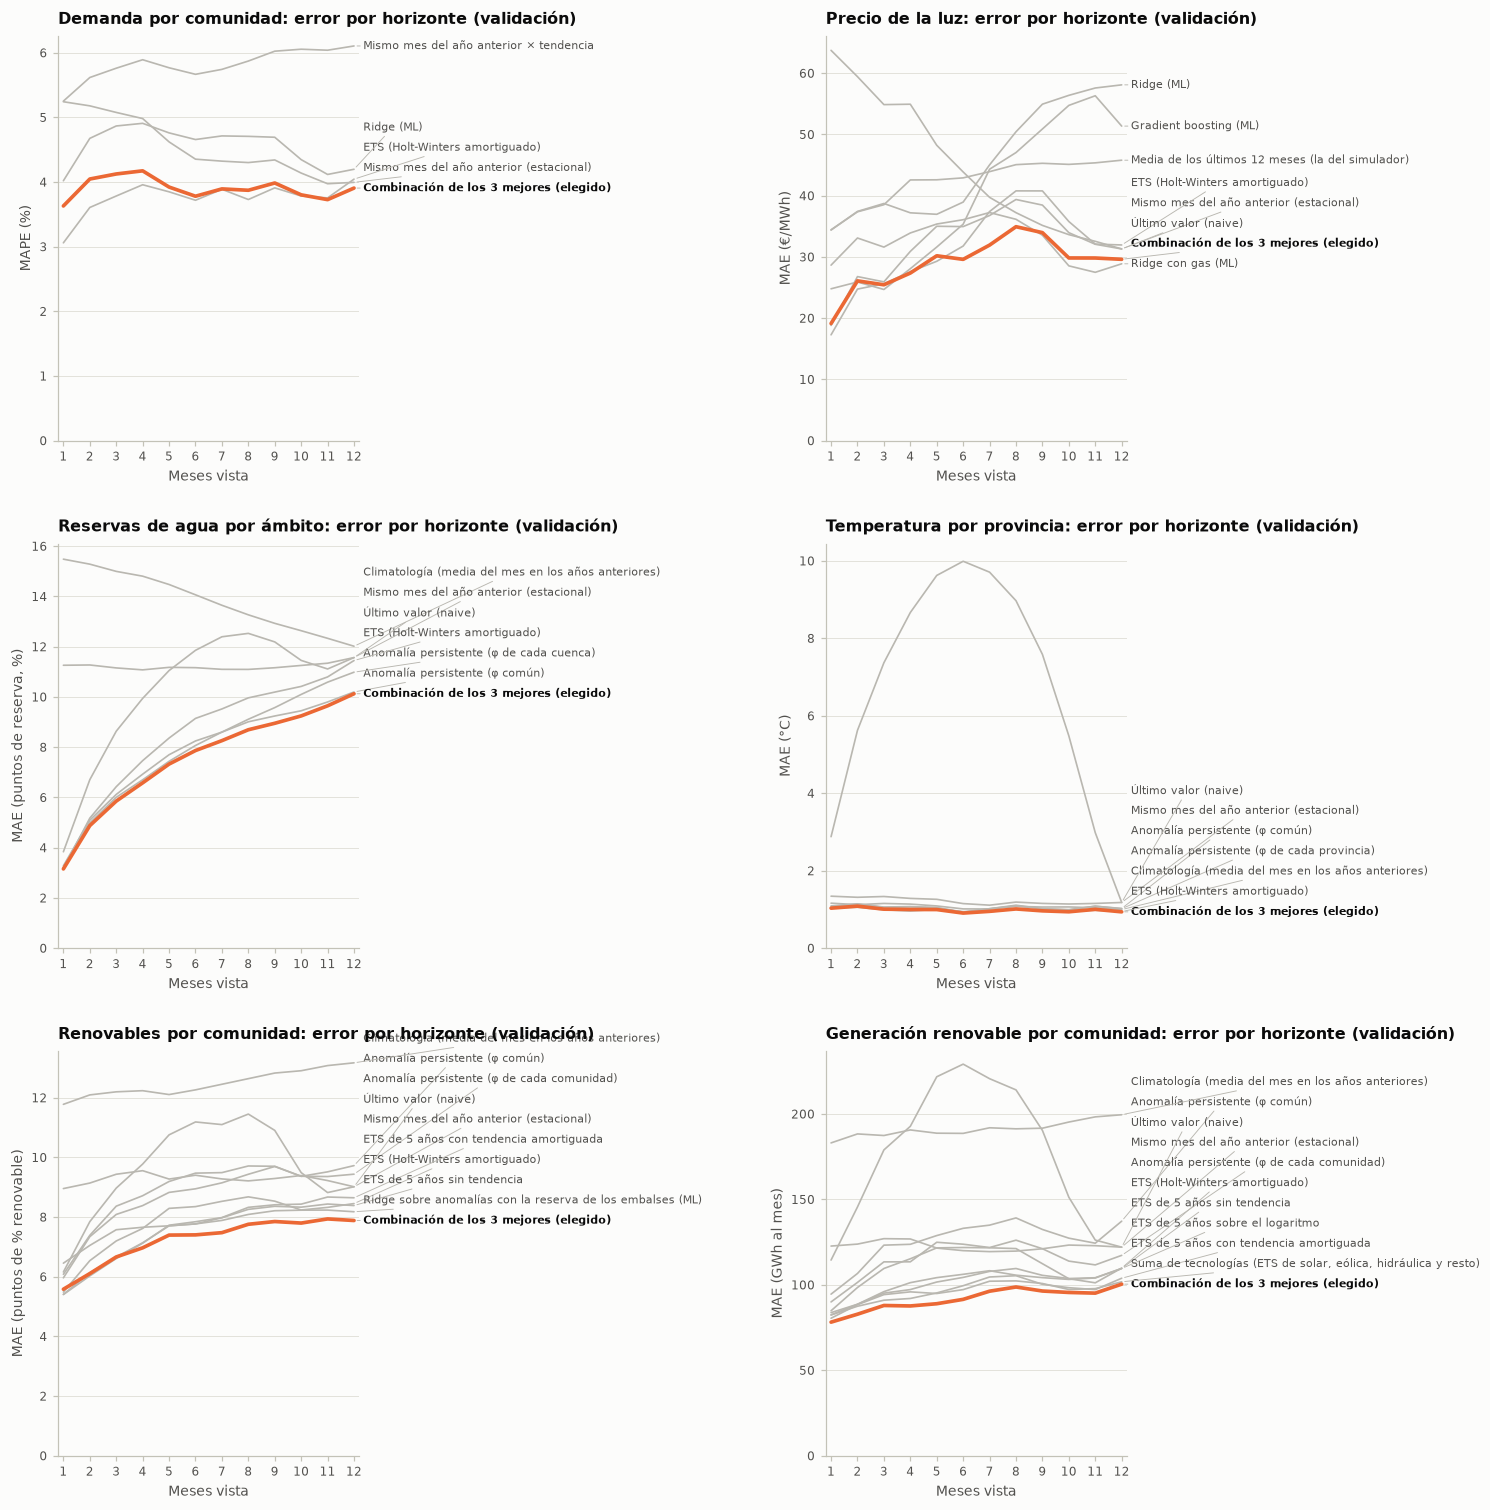
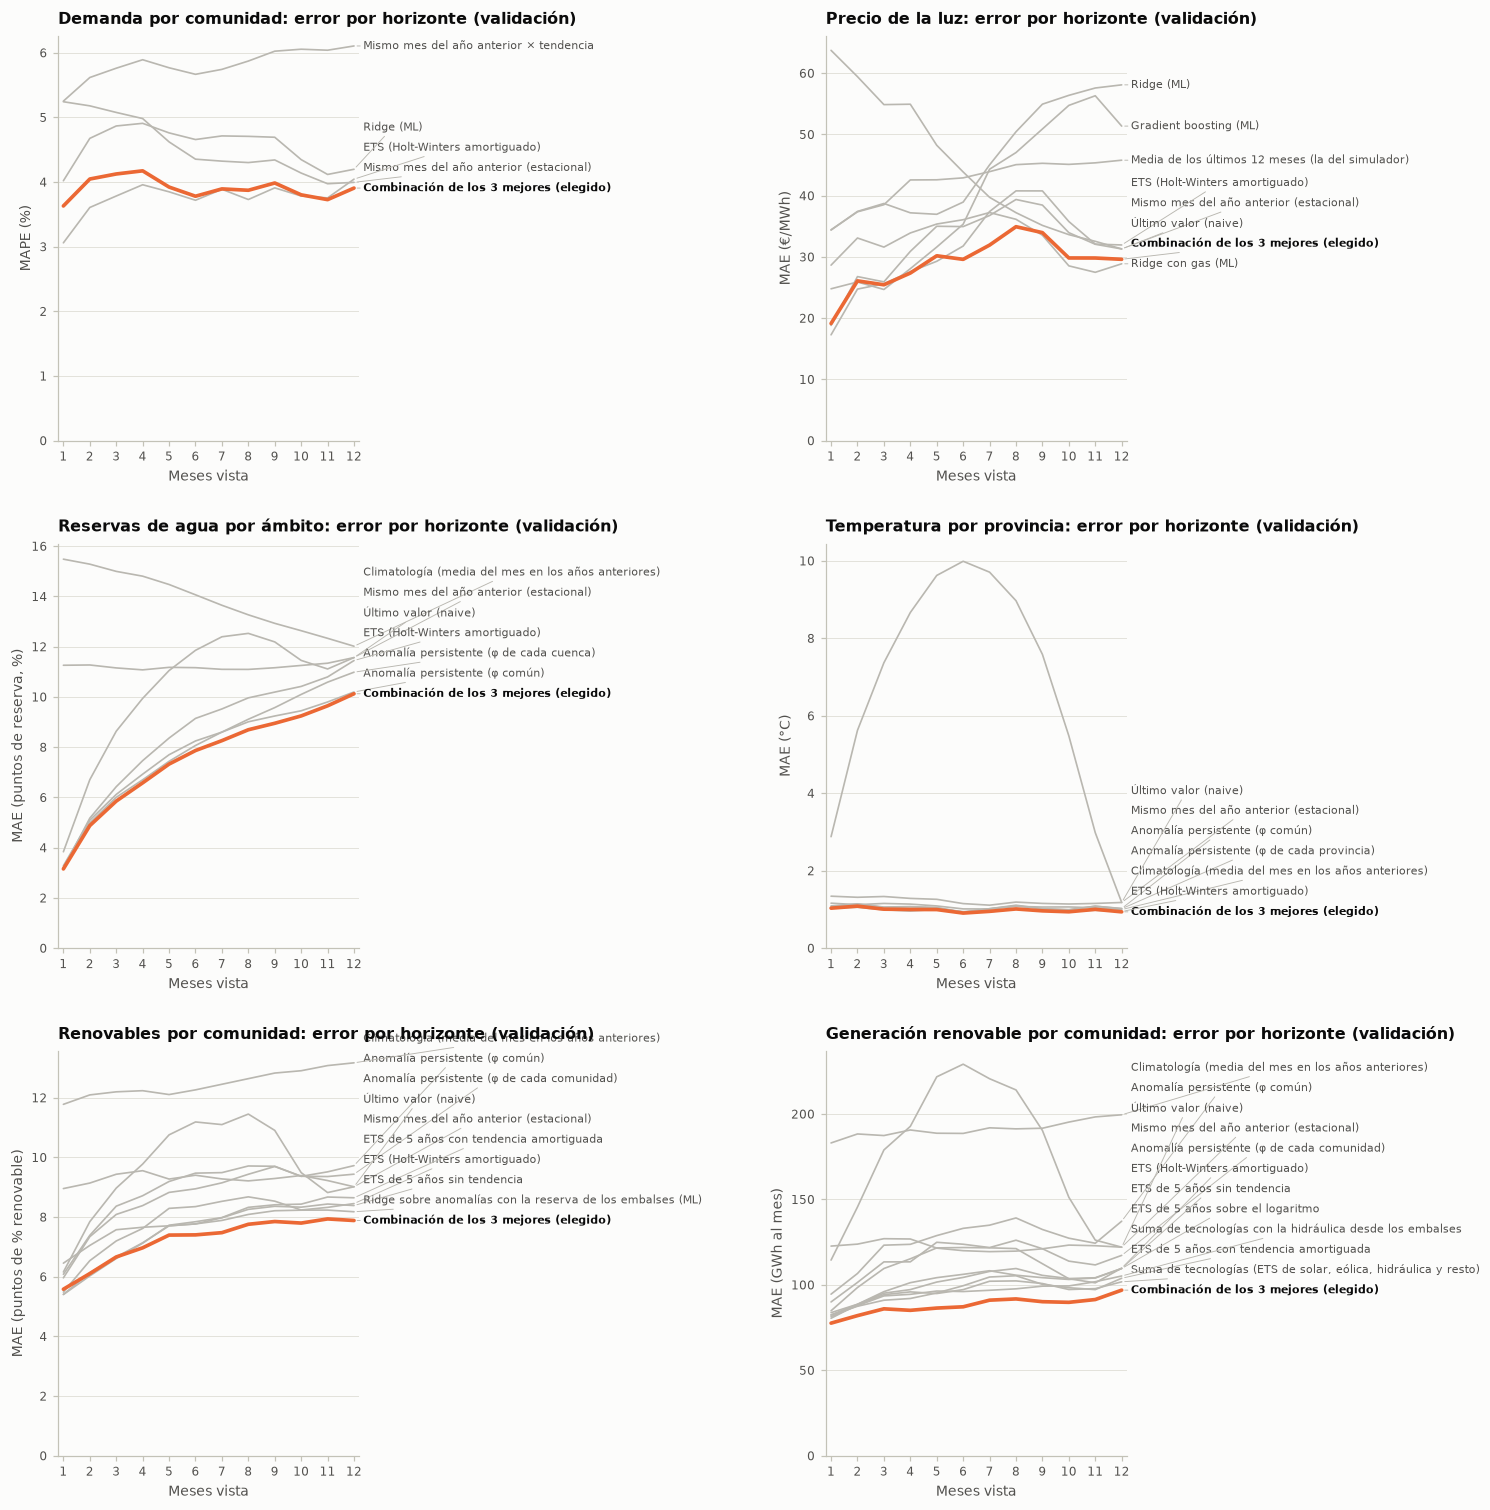
docs(analisis): informe y figuras con la hidráulica desde los embalses

Changed region(s): [[0.5866, 0.6848, 0.9879, 0.8715], [0.9262, 0.6848, 0.957, 0.7159]]

diff --git a/docs/analisis/previsiones_1_anio.md b/docs/analisis/previsiones_1_anio.md
@@ -24,8 +24,8 @@ indica una fuga de información. El control se ejecuta en cada `python -m cpd.mo
 | Temperatura por provincia a 1 año | 93,8 % | 92,8 % | 100 − WAPE (en °C) | cumple (objetivo 90 %) |
 | Renovables por comunidad a 1 año (mes a mes) | 84,8 % | 88,6 % | 100 − WAPE | no cumple (< 85 %) |
 | Renovables por comunidad: % medio de 12 meses | 89,4 % | 92,2 % | 100 − WAPE de la media anual | cumple |
-| Generación renovable por comunidad a 1 año (mes a mes) | 85,6 % | 88,1 % | 100 − WAPE (MWh) | cumple |
-| Generación renovable por comunidad: total de 12 meses | 91,5 % | 93,6 % | 100 − WAPE del total anual | cumple (objetivo 90 %) |
+| Generación renovable por comunidad a 1 año (mes a mes) | 86,2 % | 88,2 % | 100 − WAPE (MWh) | cumple |
+| Generación renovable por comunidad: total de 12 meses | 92,3 % | 93,5 % | 100 − WAPE del total anual | cumple (objetivo 90 %) |
 | Operación del CPD a 1 año: consumo | 99,7 % | — | 100 − WAPE del total anual (22 orígenes comunes) | cumple (objetivo 90 %) |
 | Operación del CPD a 1 año: emisiones | 90,6 % | — | 100 − WAPE del total anual (22 orígenes comunes) | cumple (objetivo 90 %) |
 | Precio de la luz a 1 año | 59,0 % | 62,4 % | 100 − WAPE | no cumple (< 85 %) |
@@ -279,14 +279,15 @@ Cuánta energía renovable genera cada comunidad frente a la que consume: **cobe
 Por encima del 100 %, la comunidad genera en renovables más de lo que consume: hay energía verde de sobra para un CPD
 nuevo. La generación renovable (MWh, REData) se prevé con los mismos candidatos que el % renovable, una ETS sobre el
 logaritmo y, desde el 18/11/2026, la **suma de tecnologías**: solar, eólica, hidráulica y resto se prevén por separado
-(cada una con su estacionalidad y su tendencia) y se suman. La demanda, con su propio modelo (arriba). Comunidades por encima del 100 %: Extremadura, Castilla y León, Castilla-La Mancha, Aragón, La Rioja, Galicia.
+(cada una con su estacionalidad y su tendencia) y se suman. La demanda, con su propio modelo (arriba). Comunidades por encima del 100 %: Extremadura, Castilla y León, Castilla-La Mancha, Aragón, La Rioja.
 
 | Modelo | Acierto validación (mes a mes) | Acierto test (mes a mes) |
 |---|---|---|
-| Combinación de los 3 mejores **(elegido)** | 85,6 % | 88,1 % |
+| Combinación de los 3 mejores **(elegido)** | 86,2 % | 88,2 % |
+| Suma de tecnologías con la hidráulica desde los embalses (en la combinación) | 85,0 % | 87,3 % |
 | Suma de tecnologías (ETS de solar, eólica, hidráulica y resto) (en la combinación) | 84,9 % | 87,7 % |
 | ETS de 5 años con tendencia amortiguada (en la combinación) | 84,9 % | 86,6 % |
-| ETS de 5 años sin tendencia (en la combinación) | 84,2 % | 87,3 % |
+| ETS de 5 años sin tendencia | 84,2 % | 87,3 % |
 | ETS de 5 años sobre el logaritmo | 84,1 % | 87,5 % |
 | ETS (Holt-Winters amortiguado) | 82,7 % | 86,4 % |
 | Anomalía persistente (φ de cada comunidad) | 82,0 % | 84,2 % |
@@ -296,7 +297,7 @@ logaritmo y, desde el 18/11/2026, la **suma de tecnologías**: solar, eólica, h
 | Climatología (media del mes en los años anteriores) | 70,0 % | 69,4 % |
 
 Validación: orígenes 2022-09 a 2024-08 (24 orígenes). Test: meses 2025-09 a 2026-08. **Total de 12 meses** (la cifra que entra en
-la cobertura): **91,5 %** en validación y **93,6 %** en test. El mes a mes depende del viento, la
+la cobertura): **92,3 %** en validación y **93,5 %** en test. El mes a mes depende del viento, la
 lluvia y el sol de cada mes y se enseña solo como orientativo.
 
 ![Cobertura renovable](../../docs/figuras/previsiones/13_cobertura_renovable_ccaa.png)
@@ -307,25 +308,25 @@ así que los dos periodos de 12 meses no coinciden del todo.
 
 | Comunidad | Renovable último año (GWh) | Demanda último año (GWh) | Cobertura último año | Cobertura prevista |
 |---|---|---|---|---|
-| Extremadura | 15.615 | 5.081 | 307 % | 317 % |
-| Castilla y León | 30.956 | 13.336 | 232 % | 247 % |
-| Castilla-La Mancha | 23.002 | 12.243 | 188 % | 201 % |
-| Aragón | 19.320 | 11.369 | 170 % | 168 % |
-| La Rioja | 1.084 | 1.539 | 70 % | 113 % |
-| Galicia | 16.562 | 15.599 | 106 % | 101 % |
-| Comunidad Foral de Navarra | 4.249 | 4.838 | 88 % | 87 % |
+| Extremadura | 15.615 | 5.081 | 307 % | 298 % |
+| Castilla y León | 30.956 | 13.336 | 232 % | 227 % |
+| Castilla-La Mancha | 23.002 | 12.243 | 188 % | 195 % |
+| Aragón | 19.320 | 11.369 | 170 % | 160 % |
+| La Rioja | 1.084 | 1.539 | 70 % | 143 % |
+| Comunidad Foral de Navarra | 4.249 | 4.838 | 88 % | 86 % |
+| Galicia | 16.562 | 15.599 | 106 % | 85 % |
 | Andalucía | 24.116 | 41.573 | 58 % | 61 % |
-| Región de Murcia | 3.689 | 9.359 | 39 % | 48 % |
-| Asturias | 3.118 | 8.259 | 38 % | 39 % |
+| Región de Murcia | 3.689 | 9.359 | 39 % | 44 % |
+| Asturias | 3.118 | 8.259 | 38 % | 31 % |
 | Canarias | 1.922 | 9.137 | 21 % | 20 % |
-| Cataluña | 7.808 | 45.353 | 17 % | 17 % |
-| Comunitat Valenciana | 3.270 | 27.718 | 12 % | 12 % |
-| Illes Balears | 739 | 6.659 | 11 % | 12 % |
-| Cantabria | 403 | 3.741 | 11 % | 11 % |
-| País Vasco | 1.105 | 14.876 | 7 % | 6 % |
+| Cataluña | 7.808 | 45.353 | 17 % | 14 % |
+| Illes Balears | 739 | 6.659 | 11 % | 11 % |
+| Comunitat Valenciana | 3.270 | 27.718 | 12 % | 11 % |
+| Cantabria | 403 | 3.741 | 11 % | 9 % |
+| País Vasco | 1.105 | 14.876 | 7 % | 5 % |
 | Madrid | 763 | 28.956 | 3 % | 3 % |
-| Melilla | 4 | 238 | 2 % | 0 % |
 | Ceuta | 0 | 209 | 0 % | 0 % |
+| Melilla | 4 | 238 | 2 % | 0 % |
 
 
 ## Operación del CPD a 1 año (sostenibilidad operativa, objetivo A3)
